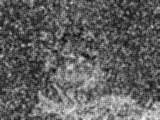
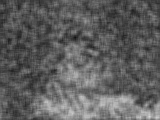
tweaked  params

diff --git a/hwork2/dip2_py/dip2.py b/hwork2/dip2_py/dip2.py
@@ -58,7 +58,7 @@ def spatial_convolution(src: np.ndarray, kernel: np.ndarray) -> np.ndarray:
     padding_height = kernel_h//2
     padding_width = kernel_w//2
 
-    padded_image = np.pad(src,((padding_height,),(padding_width,)), "reflect")
+    padded_image = np.pad(src,((padding_height,),(padding_width,)), "median")
 
     result = np.zeros_like(src, dtype=float)
 
@@ -90,7 +90,7 @@ def median_filter(src: np.ndarray, k_size: int) -> np.ndarray:
     """
     Median filter.
     """
-    padded_src = np.pad(src, ((k_size,),(k_size,)),"reflect")
+    padded_src = np.pad(src, ((k_size//2,),(k_size//2,)),"symmetric")
     src_h, src_w = src.shape
     result = np.zeros_like(src, dtype=float)
     for y in range(src_h):
@@ -108,7 +108,7 @@ def bilateral_filter(src: np.ndarray, k_size: int, sigma_spatial: float, sigma_r
     """
     Bilateral filter.
     """
-    padded_image = np.pad(src, ((k_size//2,k_size//2),(k_size//2,k_size//2)),"median")
+    padded_image = np.pad(src, ((k_size//2,),(k_size//2,)),"median")
 
     result = np.zeros_like(src, dtype=float)
     img_h, img_w = src.shape
@@ -176,23 +176,23 @@ def denoise_image(
 
     if noise_reduction_algorithm is NoiseReductionAlgorithm.NR_MOVING_AVERAGE_FILTER:
         if noise_type is NoiseType.NOISE_TYPE_1:
-            return average_filter(src, 3)
+            return average_filter(src, 5)
         if noise_type is NoiseType.NOISE_TYPE_2:
             return average_filter(src, 3)
         raise ValueError("Unhandled noise type!")
 
     if noise_reduction_algorithm is NoiseReductionAlgorithm.NR_MEDIAN_FILTER:
         if noise_type is NoiseType.NOISE_TYPE_1:
-            return median_filter(src, 3)
+            return median_filter(src, 5)
         if noise_type is NoiseType.NOISE_TYPE_2:
-            return median_filter(src, 3)
+            return median_filter(src, 5)
         raise ValueError("Unhandled noise type!")
 
     if noise_reduction_algorithm is NoiseReductionAlgorithm.NR_BILATERAL_FILTER:
         if noise_type is NoiseType.NOISE_TYPE_1:
-            return bilateral_filter(src, 13, 1.0, 100.0)
+            return bilateral_filter(src, 9, 2, 100.0)
         if noise_type is NoiseType.NOISE_TYPE_2:
-            return bilateral_filter(src, 13, 1.0, 100.0)
+            return bilateral_filter(src, 9, 2, 100.0)
         raise ValueError("Unhandled noise type!")
 
     raise ValueError("Unhandled filter type!")
